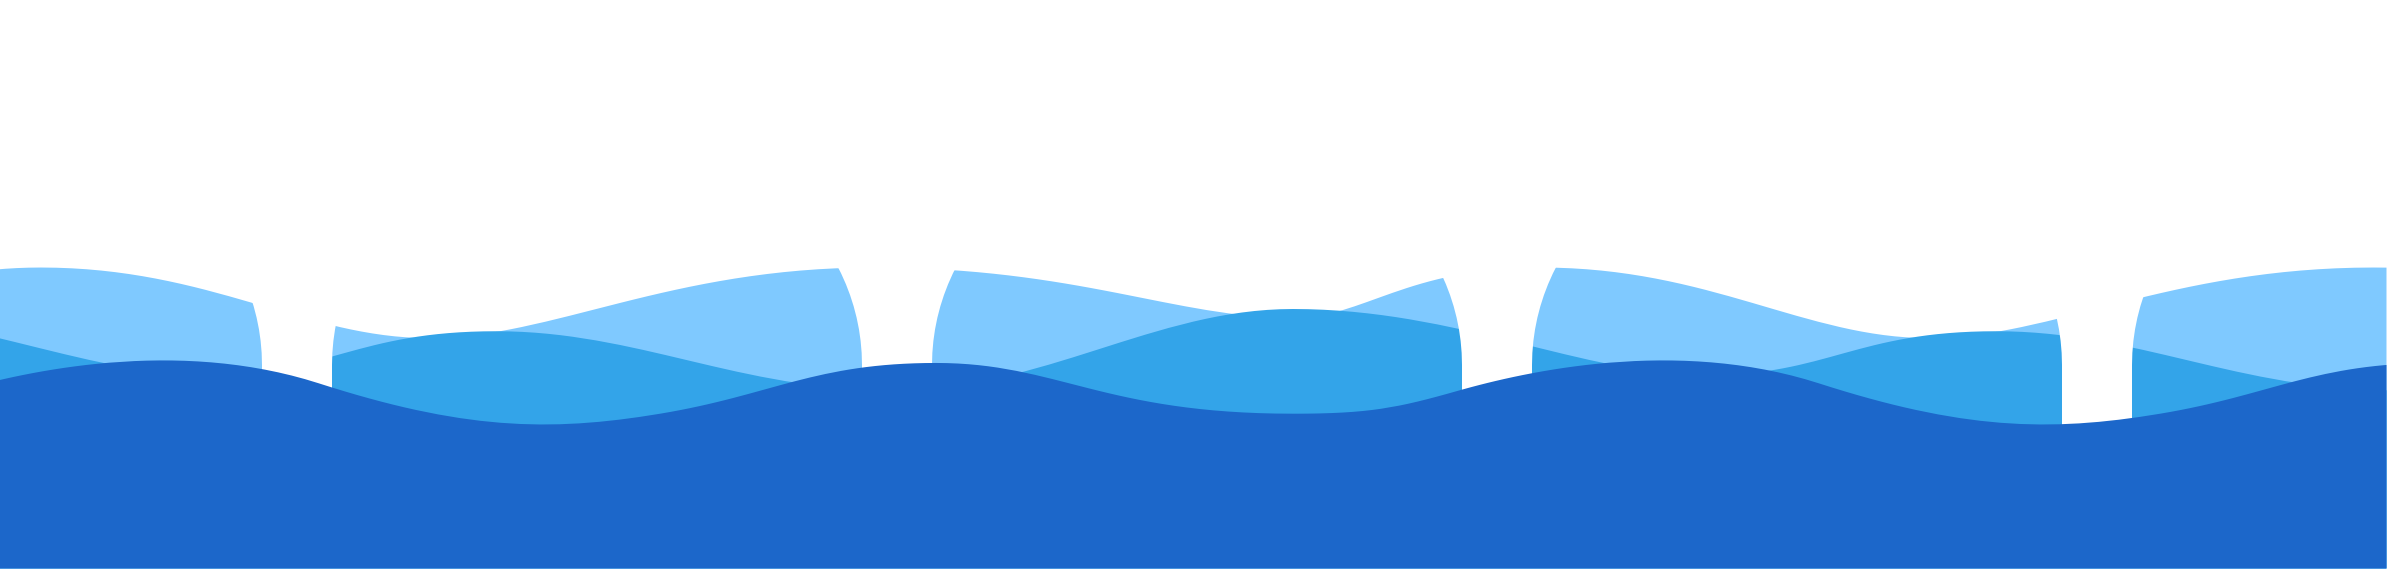
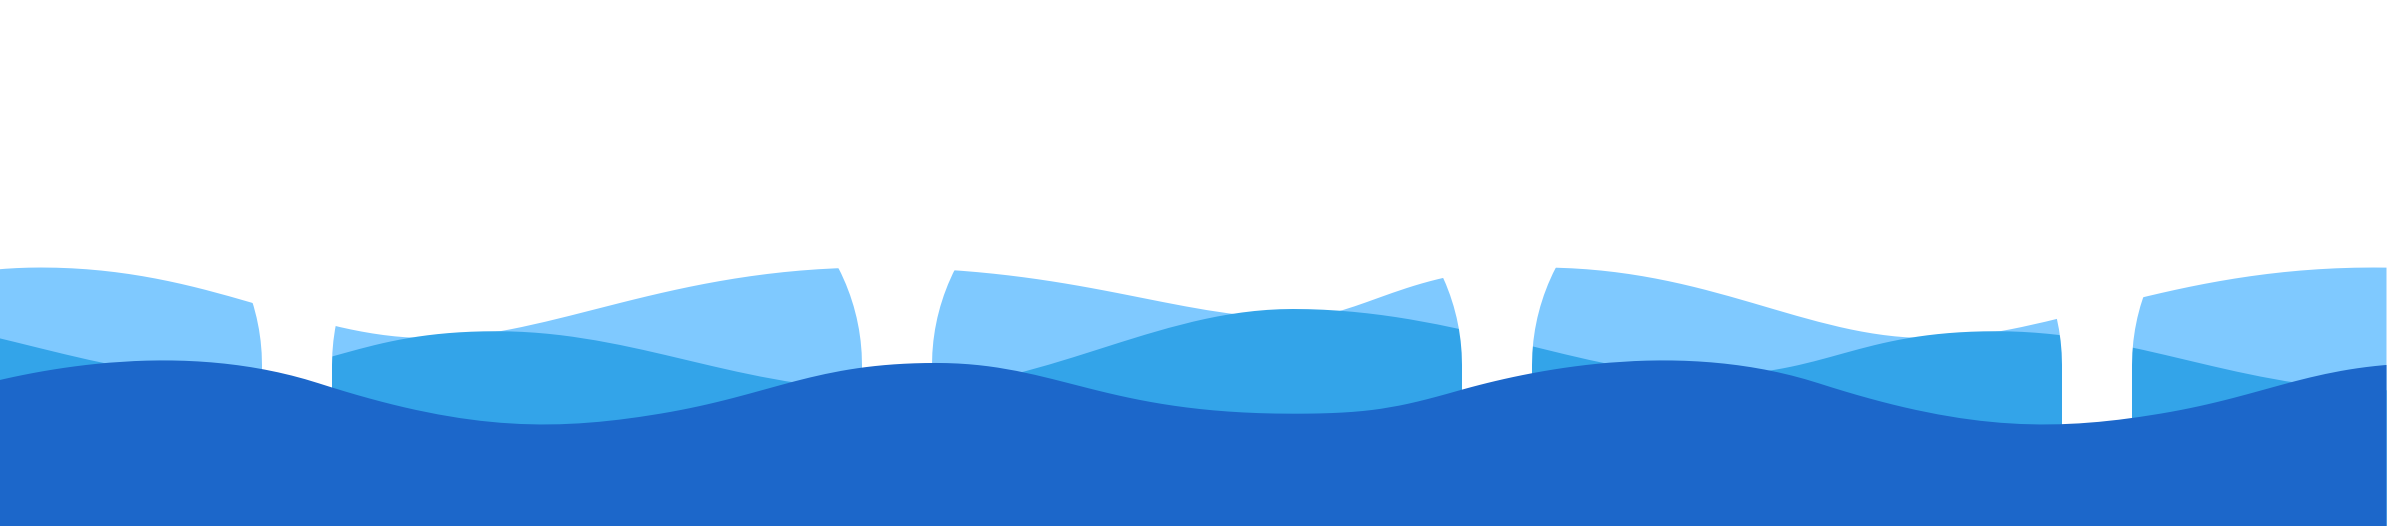
addded missing sections

Changed region(s): [[0.0, 0.4563, 1.0, 0.8213], [0.0, 0.4563, 0.124, 0.5779]]

diff --git a/index.html b/index.html
@@ -27,7 +27,7 @@
     </div>
     <div class="container">
       <div class="hero-image row">
-        <img class="hacktx-title col-sm-8 col-sm-offset-2 col-xs-8 col-xs-offset-2" src="images/hacktx_title.png"/>
+        <img class="hacktx-title col-xs-8 col-xs-offset-2" src="images/hacktx_title.png"/>
       </div>
 
       <div class="hero-info row">
@@ -42,6 +42,36 @@
   <section class="about">
     <div class="skyline">
       <img src="images/skyline.png"/>
+    </div>
+    <div class="container">
+      <div class="about-info row">
+        <h2>HACKTX IS FOR _________</h2>
+        <p class="col-xs-8 col-xs-offset-2">Austin single-origin coffee keytar lomo heirloom drinking vinegar disrupt. Lumbersexual Odd Future 8-bit lomo. Fixie lumbersexual twee migas butcher, brunch messenger bag disrupt.Beard food truck pork belly health goth. Asymmetrical Pitchfork tattooed normcore scenester shabby chic.</p>
+      </div>
+    </div>
+  </section>
+
+  <section class="schedule">
+    <div class="bridge">
+      <img src="images/water-waves.png"/>
+    </div>
+    <div class="container">
+      <div class="schedule-info row">
+        <h2>SCHEDULE</h2>
+        <p class="col-xs-8 col-xs-offset-2">Austin single-origin coffee keytar lomo heirloom drinking vinegar disrupt. Lumbersexual Odd Future 8-bit lomo. Fixie lumbersexual twee migas butcher, brunch messenger bag disrupt.Beard food truck pork belly health goth. Asymmetrical Pitchfork tattooed normcore scenester shabby chic.</p>
+      </div>
+    </div>
+  </section>
+
+  <section class="questions">
+    <div class="hills">
+      <img src="images/hills.png"/>
+    </div>
+    <div class="container">
+      <div class="questions-info row">
+        <h2>FAQ</h2>
+        <p class="col-xs-8 col-xs-offset-2">Austin single-origin coffee keytar lomo heirloom drinking vinegar disrupt. Lumbersexual Odd Future 8-bit lomo. Fixie lumbersexual twee migas butcher, brunch messenger bag disrupt.Beard food truck pork belly health goth. Asymmetrical Pitchfork tattooed normcore scenester shabby chic.</p>
+      </div>
     </div>
   </section>
 

diff --git a/css/style.css b/css/style.css
@@ -17,14 +17,17 @@
 
 * {
   font-family: 'Lato', sans-serif;
+  color: #f7f7f7;
 }
 
 h2 {
   margin: 0;
   padding: 0;
-  font-family: 'Oleo Script', serif;
-  color: #f7f7f7;
   font-size: 32px;
+}
+
+p {
+  font-size: 24px;
 }
 
 body {
@@ -36,7 +39,7 @@ body {
   height: 100%;
 }
 
-.container {
+.hero .container {
   padding-top: 200px;
 }
 
@@ -99,17 +102,58 @@ h2.date {
 
 .about {
   background: #f04650;
-  height: 100vh;
+}
+
+.schedule {
+  background: #1C67CA;
+}
+
+.questions {
+  background: #5AD286;
+}
+
+.about .container,
+.schedule .container,
+.questions .container {
+  padding-top: 100px;
+  padding-bottom: 400px;
+}
+
+.skyline,
+.bridge,
+.hills {
+  height: 0;
+  position: relative;
+  z-index: 0;
 }
 
 .skyline {
-  z-index: 0;
-  position: relative;
   bottom: 330px;
 }
 
-.skyline  img{
+.bridge {
+  bottom: 280px;
+}
+
+.hills {
+  bottom: 360px;
+}
+
+.hills img,
+.bridge img, 
+.skyline img {
   width: 100%;
+}
+
+.about-info h2,
+.schedule-info h2,
+.questions-info h2 {
+  width: 100%;
+  text-align: center;
+}
+
+.about-info p {
+  text-align: center;
 }
 
 @media (max-width: 768px) {
